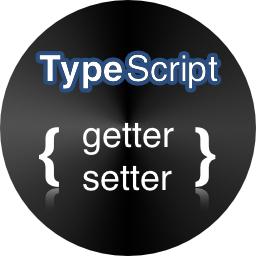
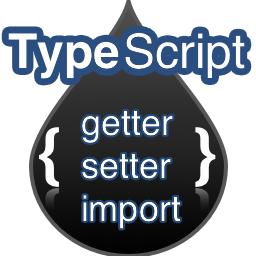
v0.1.6

diff --git a/src/suggest.ts b/src/suggest.ts
@@ -1,4 +1,4 @@
-import * as vscode from 'vscode';
+import * as vscode from 'vscode'
 import * as fs from 'fs'
 
 interface IExpose {
@@ -9,39 +9,148 @@ interface IExpose {
 
 export let modeId: string = 'typescript';
 
-// export class FormatImport implements vscode.DocumentFormattingEditProvider {
-//     public provideDocumentFormattingEdits(document: vscode.TextDocument, options: vscode.FormattingOptions, token: vscode.CancellationToken): vscode.TextEdit[] {
-//         var edits: vscode.TextEdit[] = [];
-//         console.log('we are FORMATTING..');
-//         return edits;
-//     }
-// }
-
 //
 // TODO refresh list when saving/editting a document
 //
 export class SuggestImport implements vscode.CompletionItemProvider {
 
     private exposeCache: IExpose[];
+    private regex_all = /([a-zA-Z]+)[\[\:\)|\s|\(|\.|\;]+/g;
+    private regex_one = /([a-zA-Z]+)[\[\:\)|\s|\(|\.|\;]+/;
     private regex_export = /export[\s]+[\=]?[\s]?[a-zA-Z]*[\s]+([a-zA-Z_$][0-9a-zA-Z_$]*)[\(|\s|\;]/;
-    private regex_import = /import[\s]+[\*|\{][\s]*[as]*[\s]*[\S]*[\s]*[\}]*[\s]*from[\s]+[\"]([\S]*)[\"][\;]/;
-
+    private regex_import = /import[\s]+[\{]*[\s]*[a-zA-Z\,\s]*[\s]*[\}]*[\s]*from[\s]*[\'\"]([\S]*)[\'|\"]+/;
 
     constructor() {
         this.exposeCache = [];
+        this.reScan();
+    }
+
+    public reScan(): void {
         this.scanFiles().then((exposes) => {
             this.exposeCache = exposes;
         });
     }
 
+    public provideCompletionItems(document: vscode.TextDocument, position: vscode.Position, token: vscode.CancellationToken): vscode.CompletionItem[] {
+        //let start = new vscode.Position(position.line, 0);
+        //let range = new vscode.Range(start, position);
+        //let text = document.getText(range);
+        return this.toItemArray();
+    }
+
+    public importAssist() {
+        vscode.window.activeTextEditor.edit((editBuilder) => {
+            // first loop through all lines and replace them if needed
+            let list = this.createList();
+            let lineCount = vscode.window.activeTextEditor.document.lineCount;
+            for (let i = 0; i < lineCount; i++) {
+                let line = vscode.window.activeTextEditor.document.lineAt(i);
+                let matcher = line.text.match(this.regex_import);
+                // replace matched lines with new imports
+                if (matcher) {
+                    for (let j = list.length - 1; j >= 0; j--) {
+                        if (matcher[1] === list[j].path + list[j].name) {
+                            //this.replaceLine(list.splice(j, 1)[0], i);
+                            let range = new vscode.Range(new vscode.Position(i, 0), new vscode.Position(i + 1, 0));
+                            editBuilder.replace(range, this.createLine(list.splice(j, 1)[0]));
+                            break;
+                        }
+                    }
+                }
+            }
+            // add rest of (new) import lines to the list
+            for (let j = 0; j < list.length; j++) {
+                let pos = new vscode.Position(0, 0);
+                editBuilder.insert(pos, this.createLine(list[j]));
+            }
+        });
+    }
+
+    private createLine(expose: IExpose): string {
+        let txt = 'import {';
+        for (let i = 0; i < expose.exported.length; i++) {
+            if (i != 0) txt += ', ';
+            txt += expose.exported[i];
+        }
+        txt += '} from \'' + expose.path + expose.name + '\';\n'
+        return txt;
+    }
+
+    private createList(): IExpose[] {
+        let list: IExpose[] = [];
+        let pos = vscode.window.activeTextEditor.selection.active;
+        // grab all 'words' from the open text in the editor
+        let matches: RegExpMatchArray = vscode.window.activeTextEditor.document.getText().toString().match(this.regex_all);
+        let fname = vscode.window.activeTextEditor.document.fileName;
+        let pcount = fname.split('/').length;
+        let cname = fname.substring(fname.lastIndexOf('/') + 1, fname.length - 3);
+        for (let i = 1; i < matches.length; i++) {
+            // sub match the correct string, because javascript can't directly globally match groups... :( 
+            let m = matches[i].match(this.regex_one);
+            // do not try to match with common keywords (for speed)
+            if (['from', 'return', 'get', 'set', 'boolean', 'string', 'if', 'var', 'let', 'for', 'public', 'class', 'new', 'import', 'as', 'private', 'while', 'case', 'switch', 'this'].indexOf(m[1]) == -1) {
+                for (let j = 0; j < this.exposeCache.length; j++) {
+                    // skip all exports from the open file where we are generating
+                    if (this.exposeCache[j].name !== cname) {
+                        if (this.exposeCache[j].exported.indexOf(m[1]) != -1) {
+                            // search and add the found export to the list
+                            // if a filename is already there, add the export to the exported list
+                            let found = false;
+                            for (let k = 0; k < list.length; k++) {
+                                if (list[k].name === this.exposeCache[j].name) {
+                                    if (list[k].exported.indexOf(m[1]) == -1) list[k].exported.push(m[1]);
+                                    found = true;
+                                    break;
+                                }
+                            }
+                            if (!found) {
+                                // also match paths with current file
+                                // this is for a correct import listing (like ../ or ./)
+                                var z = <IExpose>{
+                                    name: this.exposeCache[j].name,
+                                    path: this.createPath(this.exposeCache[j].path, pcount),
+                                    exported: []
+                                };
+                                z.exported.push(m[1]);
+                                list.push(z)
+                            }
+                        }
+                    }
+                }
+            }
+        }
+        return list;
+    }
+
+    private createPath(path: string, pcount: number): string {
+        var c = path.split('/').length;
+        if (c == pcount) {
+            return './';
+        } else if (c < pcount) {
+            let r = '';
+            for (let m = c; m < pcount; m++) {
+                r += '../'
+            }
+            return r;
+        } else {
+            let r = './';
+            for (let m = pcount; m < c; m++) {
+                r += path.split('/')[m - 1];
+            }
+            return r + '/';
+        }
+    }
+
     private scanFiles(): Thenable<IExpose[]> {
         return new Promise((resolve, reject) => {
+            // scan all .ts files in the workspace and skip some common directories
             var excluded: string[] = ['/typings/'];
             vscode.workspace.findFiles('**/*.ts', '**/node_modules/**').then((files) => {
                 var exposes: IExpose[] = [];
                 for (let i = 0; i < files.length; i++) {
                     for (let j = 0; j < excluded.length; j++) {
                         if (files[i].fsPath.indexOf(excluded[j]) == -1) {
+                            // create the IExpose based on filename and path
                             var expose = {
                                 name: files[i].fsPath.substring(files[i].fsPath.lastIndexOf('/') + 1, files[i].fsPath.length - 3),
                                 path: files[i].fsPath.substring(0, files[i].fsPath.lastIndexOf('/') + 1),
@@ -49,6 +158,7 @@ export class SuggestImport implements vscode.CompletionItemProvider {
                             };
                             var data = fs.readFileSync(files[i].fsPath);
                             var lines = data.toString().split(/(\r?\n)/g);
+                            // walk through all lines of code and search for 'export' statements with the regex
                             for (let k = 0; k < lines.length; k++) {
                                 var line = lines[k];
                                 var matches = line.match(this.regex_export);
@@ -81,11 +191,5 @@ export class SuggestImport implements vscode.CompletionItemProvider {
         return items;
     }
 
-    public provideCompletionItems(document: vscode.TextDocument, position: vscode.Position, token: vscode.CancellationToken): vscode.CompletionItem[] {
-        let start = new vscode.Position(position.line, 0);
-        let range = new vscode.Range(start, position);
-        let text = document.getText(range);
-        return this.toItemArray();
-    }
 }
 

diff --git a/src/extension.ts b/src/extension.ts
@@ -8,12 +8,19 @@ enum EAction {
 }
 
 export function activate(context: vscode.ExtensionContext) {
-    
-    //let formatImport = new suggest.FormatImport();
-    //vscode.languages.registerDocumentFormattingEditProvider(suggest.modeId, formatImport);
-    
+
     let suggestImport = new suggest.SuggestImport();
     vscode.languages.registerCompletionItemProvider(suggest.modeId, suggestImport);
+
+    // update intellisense typings (re-scan) when a document is saved
+    vscode.workspace.onDidSaveTextDocument((event) => {
+        suggestImport.reScan();
+    });
+
+    let subImport = vscode.commands.registerCommand('genGetSet.import', () => {
+        suggestImport.importAssist();
+    });
+    context.subscriptions.push(subImport);
 
     let subGetter = vscode.commands.registerCommand('genGetSet.getter', () => {
         var items = analyze.scanFile(analyze.EAction.GETTER);
@@ -48,12 +55,16 @@ export function activate(context: vscode.ExtensionContext) {
     let subPopup = vscode.commands.registerCommand('genGetSet.popup', () => {
         vscode.window.showQuickPick([
             <vscode.QuickPickItem>{
-                label: 'Getter and Setter',
-                description: 'both public get and set <name>'
+                label: 'Import Assistant',
+                description: 'import {...} from'
             },
             <vscode.QuickPickItem>{
                 label: 'Constructor',
-                description: 'constructor(name)'
+                description: 'public constructor(...)'
+            },
+            <vscode.QuickPickItem>{
+                label: 'Getter and Setter',
+                description: 'both public get and set <name> (...)'
             },
             <vscode.QuickPickItem>{
                 label: 'Getter',
@@ -61,10 +72,12 @@ export function activate(context: vscode.ExtensionContext) {
             },
             <vscode.QuickPickItem>{
                 label: 'Setter',
-                description: 'public set <name>'
+                description: 'public set <name> (...)'
             }
         ]).then((result) => {
-            if (result && result.label.indexOf('Getter and Setter') !== -1) {
+            if (result && result.label.indexOf('Import Assistant') !== -1) {
+                suggestImport.importAssist();
+            } else if (result && result.label.indexOf('Getter and Setter') !== -1) {
                 vscode.commands.executeCommand('genGetSet.getterAndSetter');
             } else if (result && result.label.indexOf('Getter') !== -1) {
                 vscode.commands.executeCommand('genGetSet.getter');

diff --git a/README.md b/README.md
@@ -1,8 +1,18 @@
-# Automatically Generate Constructors, Getters and Setters
+# Generate Constructors, Getters and Setters
 
-![Demo](demo.gif)
+![Demo](demo1.gif)
+Generate getters and setters based on private variables.
+
+![Demo](demo2.gif)
+Complete with intellisense the exports in your workspace and auto generate import lines.
 
 ## Changelog
+
+### v0.1.6
++ import assistant: generate import lines
++ intellisense for exports from other files
++ better error handling
++ import demo screencast 
 
 ### v0.1.5
 + updated README
